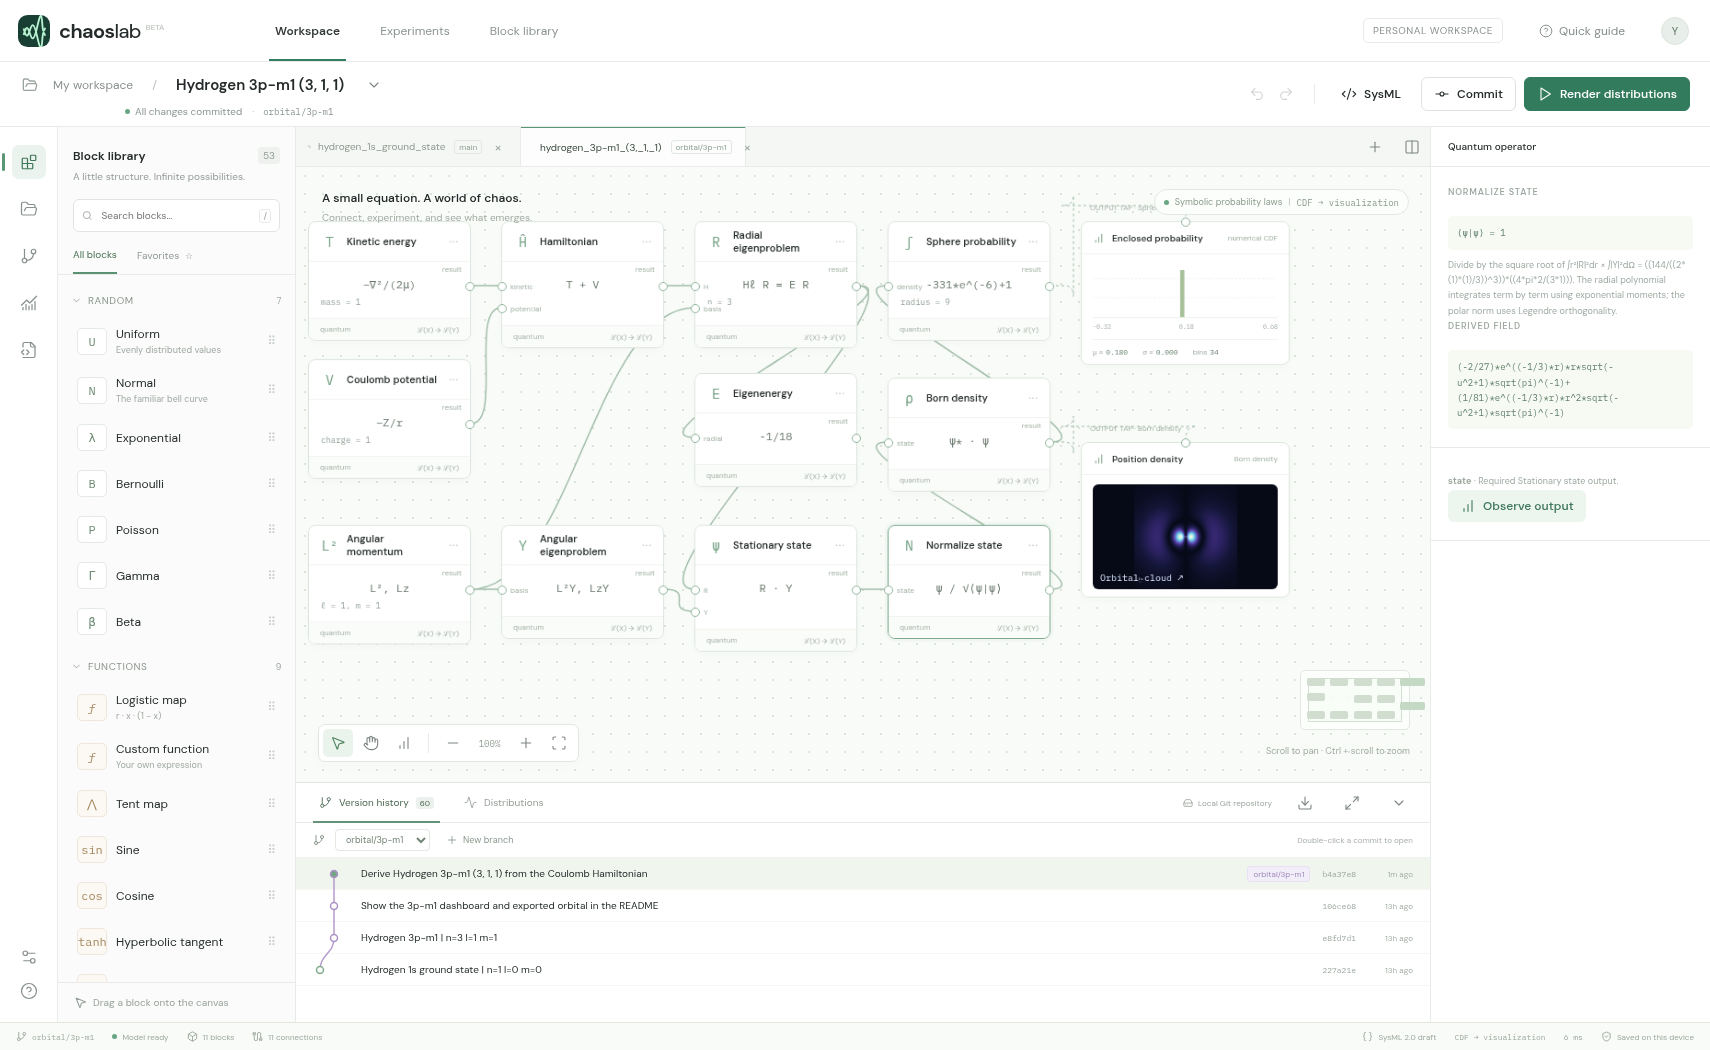
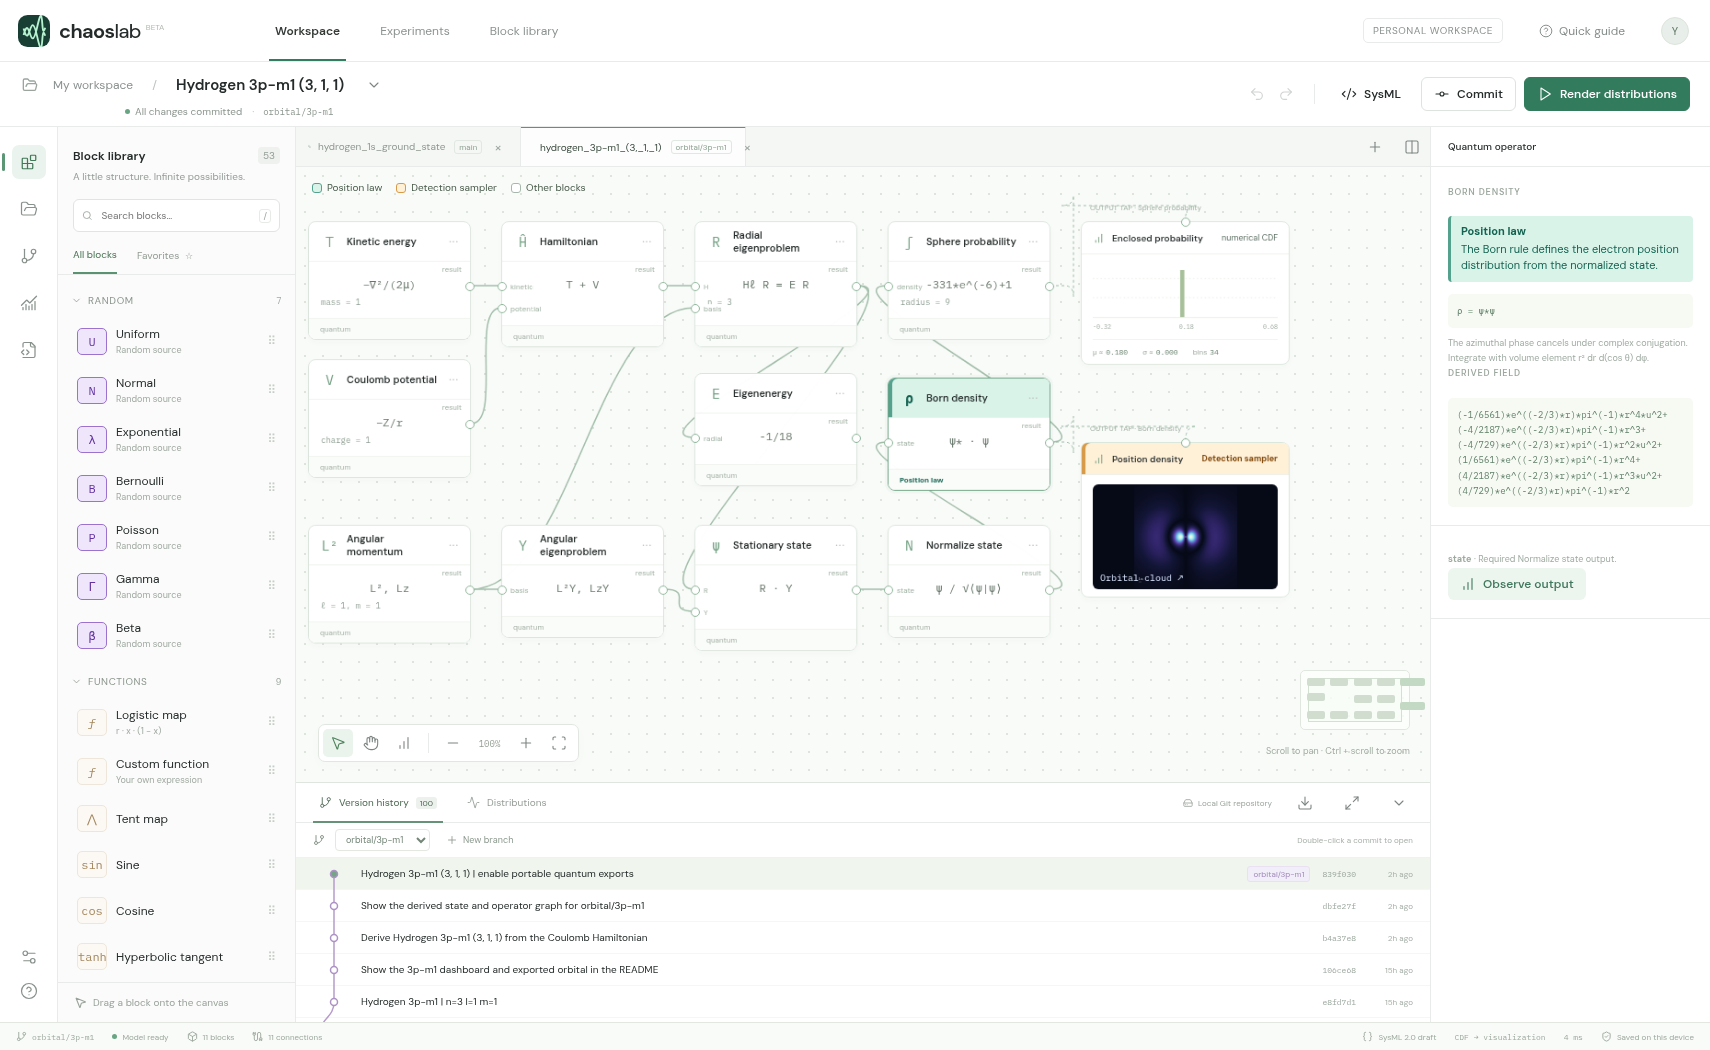
Hydrogen 3p-m1 (3, 1, 1) | identify the position law and detection sampler

diff --git a/studio.py b/studio.py
@@ -10,7 +10,7 @@ import tempfile
 import webbrowser
 
 ROOT = Path(__file__).resolve().parent
-STUDIO_REV = "1cc30c5632f1fe1f79a11ab6730f82c36a6c01e4"
+STUDIO_REV = "8657d6ecd3aa33a5a28f43219d5d6bfb8aa3edcc"
 STUDIO_REPO = "https://github.com/wa200508/chaos_lab.git"
 
 

diff --git a/README.md b/README.md
@@ -6,6 +6,8 @@ Open **Version history** in Chaos Lab to explore the 20 hydrogen designs in this
 
 The connected Hamiltonian and eigenstate solvers give $E=-1/18$ Hartree for this state.
 
+On the canvas, teal **Position law** marks where the Born rule defines the distribution of electron positions. Amber **Detection sampler** marks the tap that draws positions for the projected cloud. The central slice evaluates the density directly.
+
 ![Chaos Lab dashboard with the 3p model, m = 1, open in version history](dashboard.png)
 
 Radial nodes: 1. Polar nodes: 0. Plot half-width: 18 Bohr radii.
